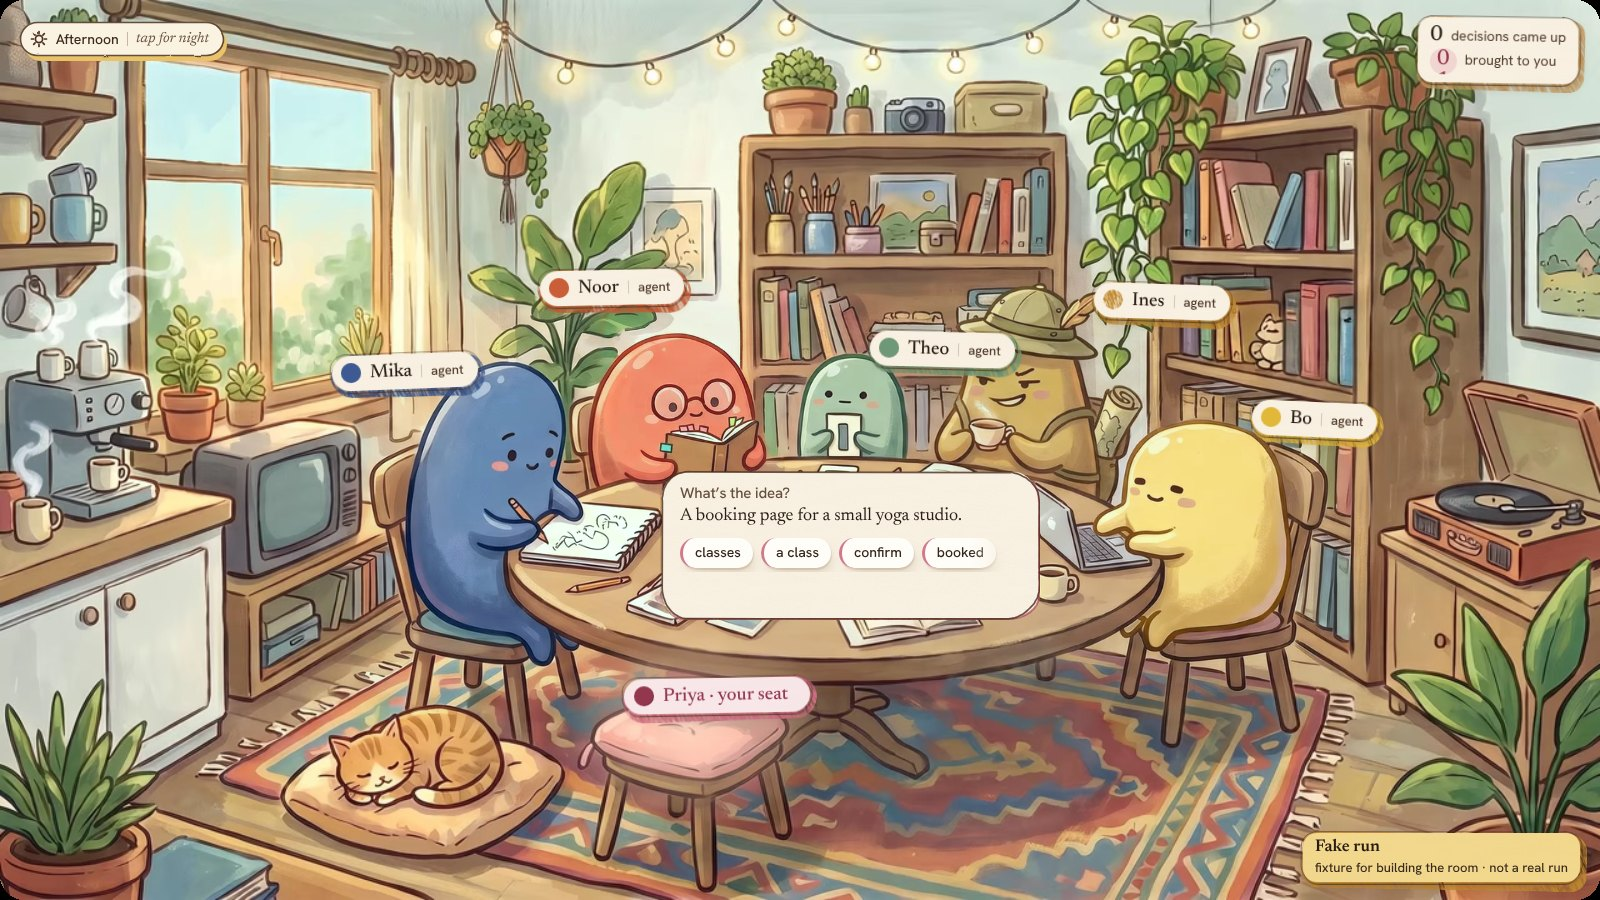
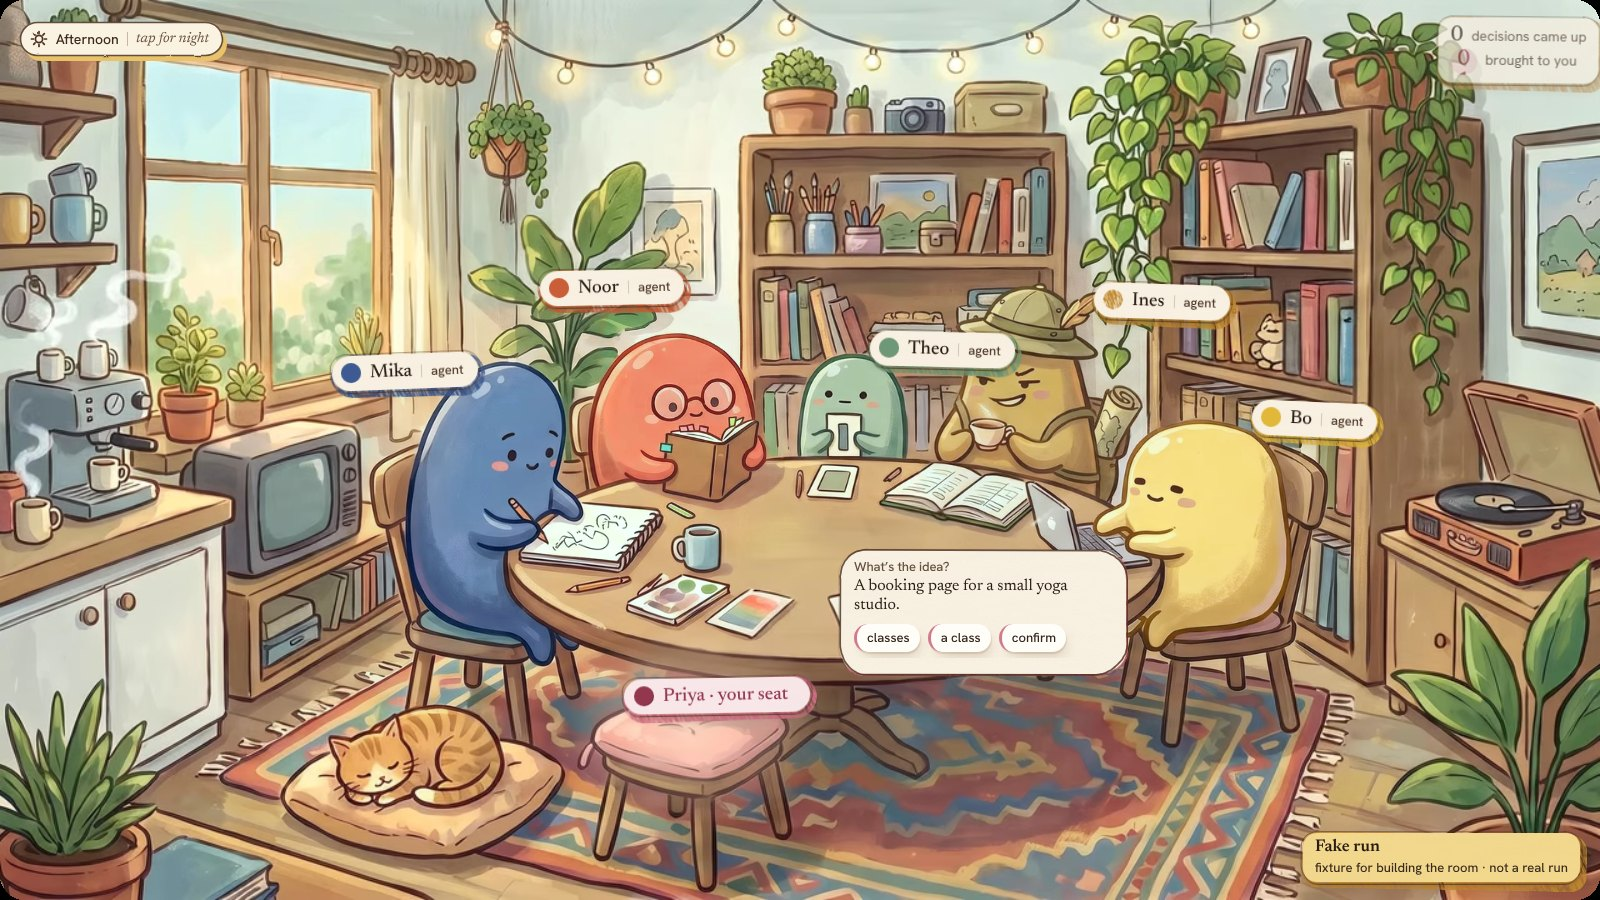
Painted look: her sheet as a glance on the table's near edge (clear of the lamp at night); playful objects fire studio:poke

diff --git a/public/looks/playful-ink.js b/public/looks/playful-ink.js
@@ -6,7 +6,9 @@
      cast/music/rain.mp3 when present, else made in code. Ducks while a focus document is open: api.duck(true), or a
      `studio:focus` event with detail { open: true }.
    - Owns every playful object in the painted look; the living layer owns the backdrop and moods. They share the time of
-     day through a `studio:time` event { time } (either side may fire it), or api.setNight(on).
+     day through a `studio:time` event { time } (either side may fire it), or api.setNight(on). A click on the record
+     player, cat or coffee machine also fires `studio:poke` { obj: 'record'|'cat'|'coffee' }, so the painted layer plays
+     that object's clip while this layer draws the ink and plays the sound.
    - Cat: two ink-drawn hearts rise when you pet it.
    - Coffee machine: a click sends up inked steam; on its own, only a tiny curl now and then.
    - String lights: a click toggles a soft glow (on by default at night).
@@ -139,7 +141,9 @@
     // the pill shows only after a click, says what is playing, and fades a few seconds later
     let hideT = 0;
     const flashTrack = (ms = 3200) => { track.classList.remove('is-hidden'); inkPill(track); clearTimeout(hideT); if (!o.still) hideT = setTimeout(() => track.classList.add('is-hidden'), ms); };
-    sRecord.addEventListener('click', () => { cycle(); flashTrack(); });
+    // the painted layer plays the object's own clip; this layer adds the ink and the sound
+    const poke = obj => document.dispatchEvent(new CustomEvent('studio:poke', { detail: { obj, from: 'playful-ink' } }));
+    sRecord.addEventListener('click', () => { poke('record'); cycle(); flashTrack(); });
     track.addEventListener('click', () => { cycle(); flashTrack(); });
     function noteFloat() {   // one small inked note rises from the record when a track starts
       const s = svgEl(20, 26, '<path d="M7 20 V5 L17 3 V17"/><path d="M7 20 a3 2.4 -20 1 1 -1 -1 M17 17 a3 2.4 -20 1 1 -1 -1"/>', 'pi-draw');
@@ -161,7 +165,7 @@
       });
     }
     let petting = false;
-    sCat.addEventListener('click', () => { if (petting) return; petting = true; hearts(); setTimeout(() => petting = false, 1600); });
+    sCat.addEventListener('click', () => { if (petting) return; petting = true; poke('cat'); hearts(); setTimeout(() => petting = false, 1600); });
 
     // ---------- coffee: inked steam curls ----------
     const curls = ['M10 60 C 2 48, 18 40, 10 28 S 4 10, 12 2', 'M10 60 C 18 50, 4 40, 12 28 S 18 12, 10 2'];
@@ -173,7 +177,7 @@
       p.animate([{ strokeDashoffset: 1 }, { strokeDashoffset: 0 }], { duration: 1400, fill: 'forwards', easing: 'ease-out' });
       s.animate([{ transform: 'translateY(8px)', opacity: 0 }, { opacity: strong ? 1 : .45, offset: .3 }, { transform: 'translateY(-26px)', opacity: 0 }], { duration: o.still ? 1e9 : 3200, easing: 'ease-out' }).onfinish = () => s.remove();
     }
-    sCoffee.addEventListener('click', () => { steamOnce(.064, true); setTimeout(() => steamOnce(.072, true), 300); });
+    sCoffee.addEventListener('click', () => { poke('coffee'); steamOnce(.064, true); setTimeout(() => steamOnce(.072, true), 300); });
     // on its own: only a tiny, faint curl from the cup, every 9 to 15 s
     if (!o.still) (function loop() { setTimeout(() => { steamOnce(.066, false, .47, true); loop(); }, 9000 + Math.random() * 6000); })();
     else steamOnce(.064, true);

diff --git a/public/looks/painted.css b/public/looks/painted.css
@@ -713,3 +713,15 @@ html #room .her-sheet { height: 140px; }
 html #room .her-sheet .her-flow, html #room .her-sheet .fl-wrap { height: 36px !important; }
 html #room .her-sheet .fl-box::after, html #room .her-sheet .fl-box > :not(.fl-label) { display: none !important; }
 html #room .her-sheet { height: 128px; }
+/* her sheet's place: the table's near-right edge, clear of Mika's hand, Theo, Bo's arm and (at night) the lamp at 818,452 */
+html #room .her-sheet:not(.big), html #room .her-sheet.big { left: 860px; top: 548px; width: 300px; height: 112px; padding: 11px 16px 10px; }
+html #room .her-sheet .her-idea { font-size: 16px; -webkit-line-clamp: 1; margin: 2px 0 7px; white-space: nowrap; text-overflow: ellipsis; display: block; }
+html #room .her-sheet .her-q { font-size: 13px; }
+html #room .her-sheet .fl-canvas { gap: 5px; }
+html #room .her-sheet .fl-box { padding: 0 10px !important; height: 28px !important; }
+html #room .her-sheet .fl-box .fl-label { font-size: 13px !important; }
+html #room .her-sheet .fl-box:nth-of-type(n+5) { display: none !important; }
+/* the decisions move up the right edge to make room */
+html #room .team-space { left: 1180px; top: 560px; }
+html #room .her-sheet:not(.big), html #room .her-sheet.big { left: 838px; width: 290px; }
+html #room .her-sheet .her-idea { white-space: normal; display: -webkit-box; -webkit-line-clamp: 2; line-height: 1.2; } html #room .her-sheet:not(.big), html #room .her-sheet.big { height: 128px; }
